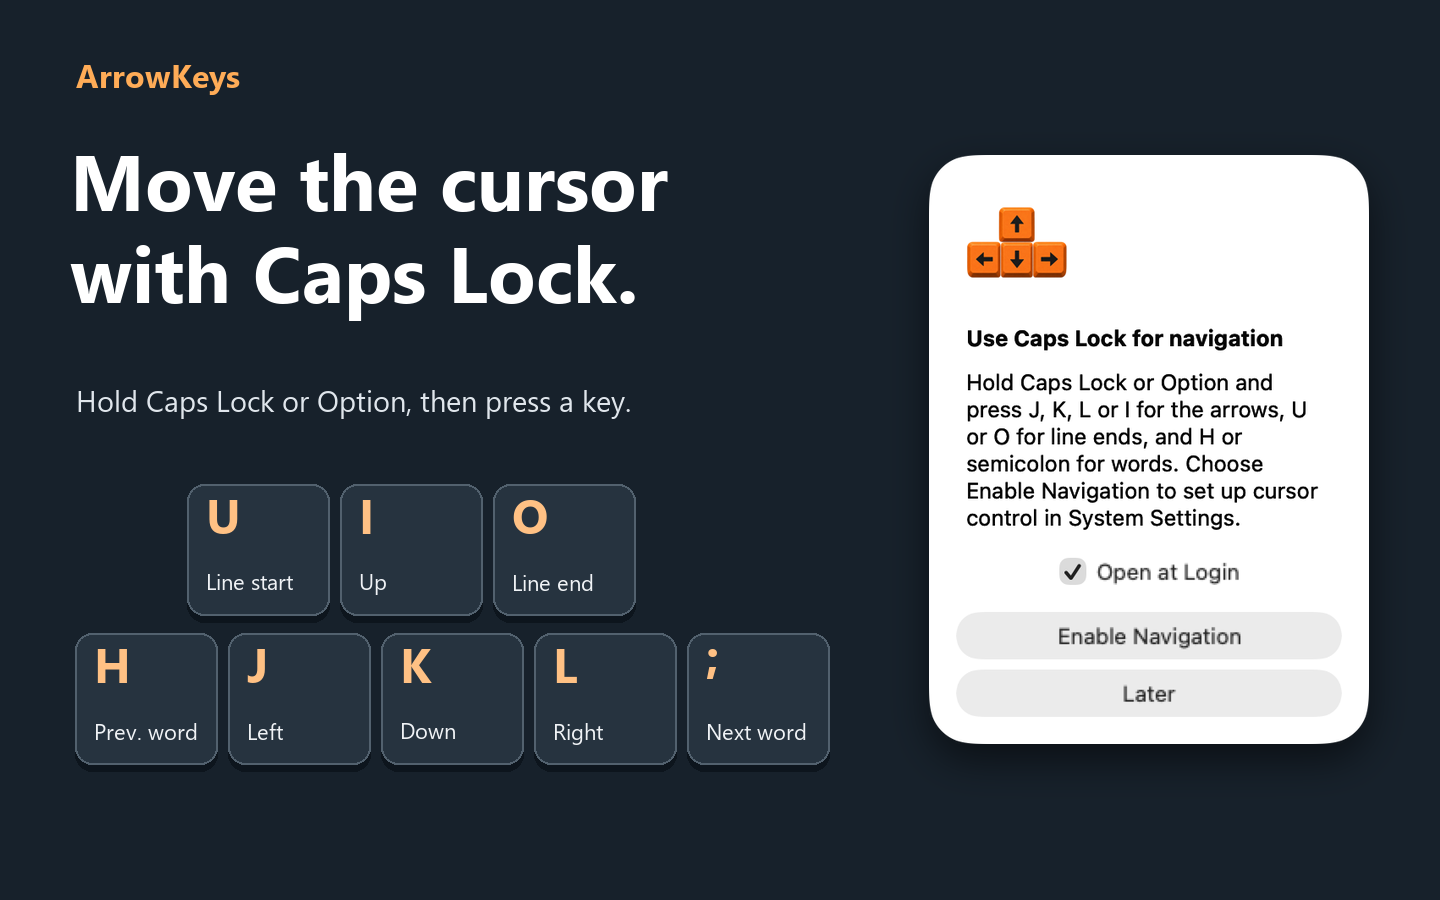
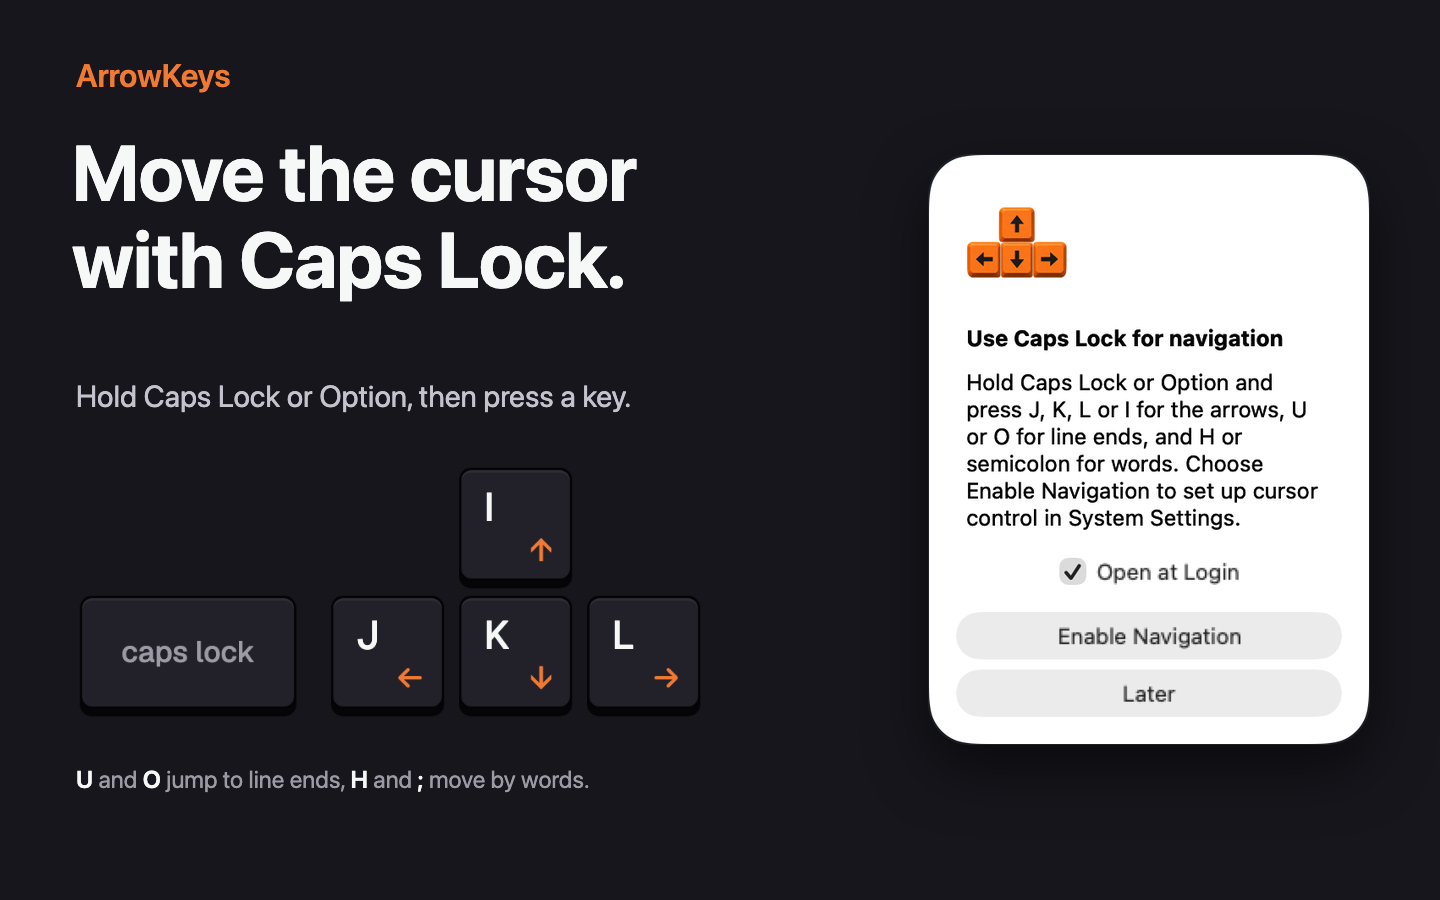
Show the Caps Lock + I J K L keycaps wherever the arrow keys appear
- The keycaps of the website's live demo (Caps Lock, then I, J, K and L with orange
  arrows) replace the full-keyboard picture. They appear in the README's Shortcuts
  section, on a transparent background that suits GitHub's light and dark themes, and in
  the Windows Store "Shortcut guide" window, on that window's background.
- New Mac App Store screenshot, 1440 × 900: the same keys on the demo's dark background,
  a line about U, O, H and ;, and the app's first-run window from the previous screenshot
  (packaging/mac-app-store/setup-window.png). screenshot.html in the same folder is its
  source.
- tools/demo/render-keycaps.py renders the keys from docs/index.html with headless Chrome
  at any size and background, then rebuilds the App Store screenshot. At 2x on the demo's
  background it matches the original picture (docs/images/keycaps-original.png) to a mean
  difference of 0.6/255.
- keyboard.png and docs/images/keyboard.webp are no longer used and are removed.

diff --git a/packaging/mac-app-store/screenshot.html b/packaging/mac-app-store/screenshot.html
@@ -1,0 +1,30 @@
+<!doctype html>
+<!-- The Mac App Store product page screenshot, 1440 × 900. Rebuild ArrowKeys-Mac-App-Store.png from it with
+     python3 tools/demo/render-keycaps.py. The keys are the website's demo keypad (docs/images/keycaps.png);
+     setup-window.png is the app's first-run window. -->
+<html lang="en">
+<head>
+<meta charset="utf-8">
+<style>
+  html, body { margin: 0; width: 1440px; height: 900px; overflow: hidden; background: #17161c; }
+  body { position: relative; font-family: -apple-system, BlinkMacSystemFont, "SF Pro Display", sans-serif; color: #f6f8f7; }
+  .brand { position: absolute; left: 76px; top: 56px; font-size: 32px; font-weight: 600; letter-spacing: -0.01em; color: #f07a33; }
+  h1 { position: absolute; left: 72px; top: 128px; margin: 0; font-size: 78px; line-height: 1.12; font-weight: 700; letter-spacing: -0.005em; }
+  .lead { position: absolute; left: 76px; top: 378px; margin: 0; font-size: 30px; color: #c4c2cc; }
+  .keys { position: absolute; left: 60px; top: 448px; width: 660px; }
+  .more { position: absolute; left: 76px; top: 762px; margin: 0; font-size: 24px; line-height: 1.45; color: #9c9aa4; }
+  .more b { color: #f6f8f7; font-weight: 600; }
+  .window { position: absolute; left: 929px; top: 155px; width: 440px; height: 589px; border-radius: 41px; overflow: hidden;
+    box-shadow: 0 0 0 1px rgba(255,255,255,.08), 0 24px 60px rgba(0,0,0,.55); }
+  .window img { display: block; }
+</style>
+</head>
+<body>
+  <div class="brand">ArrowKeys</div>
+  <h1>Move the cursor<br>with Caps Lock.</h1>
+  <p class="lead">Hold Caps Lock or Option, then press a key.</p>
+  <img class="keys" src="../../docs/images/keycaps.png" alt="">
+  <p class="more"><b>U</b> and <b>O</b> jump to line ends, <b>H</b> and <b>;</b> move by words.</p>
+  <div class="window"><img src="setup-window.png" width="440" height="589" alt=""></div>
+</body>
+</html>

diff --git a/tools/demo/render-keycaps.py b/tools/demo/render-keycaps.py
@@ -1,0 +1,83 @@
+# Renders the website's Caps Lock + I J K L keycaps (the keypad of the live demo in docs/index.html) as still
+# PNG images, so the README, the Windows guide and the Mac App Store screenshot show exactly the keys on the
+# website. Then it rebuilds the Mac App Store screenshot from packaging/mac-app-store/screenshot.html.
+# Needs Google Chrome (set CHROME to use another Chromium browser).
+# Usage: python3 tools/demo/render-keycaps.py
+import functools, http.server, os, shutil, subprocess, tempfile, threading
+
+HERE = os.path.dirname(os.path.abspath(__file__))
+ROOT = os.path.dirname(os.path.dirname(HERE))
+CHROME = os.environ.get("CHROME", "/Applications/Google Chrome.app/Contents/MacOS/Google Chrome")
+PAD_W, PAD_H = 252, 101  # the keypad in CSS pixels: 96 + 3 × 46 + 3 × 6 wide, 2 × 46 + 6 + 3 (key shadow) high
+
+# (file, scale, background or None for transparent, margin around the keys in CSS pixels)
+KEYCAPS = [
+    ("docs/images/keycaps.png", 3, None, 8),              # README (on GitHub's light and dark themes), App Store screenshot
+    ("packaging/store/keycaps.png", 2.5, "#faf9f6", 4),   # the Windows Store guide window, on its BackColor
+]
+SCREENSHOT = ("packaging/mac-app-store/screenshot.html", "packaging/mac-app-store/ArrowKeys-Mac-App-Store.png", 1440, 900)
+
+# Only the demo keypad, at rest, in the site's dark theme (the keys are the same in both themes; the dark
+# theme's brighter orange arrows are the ones the keycaps image uses).
+CSS = """
+  header, .skip, .hero-copy, main > *:not(.hero), footer, .device-bar, .doc, .readout { display: none !important; }
+  body::before { display: none !important; }
+  html, body, .band.hero, .device, .device-foot { background: var(--capture-bg) !important; }
+  body { margin: 0 !important; }
+  .hero .wrap { display: block !important; padding: 0 !important; max-width: none !important; }
+  .device { border: 0 !important; }
+  .device-foot { display: block !important; border: 0 !important; padding: var(--capture-margin) !important; }
+  *, *::before, *::after { animation: none !important; transition: none !important; }
+"""
+DRIVER = """<script>
+  var q = new URLSearchParams(location.search), root = document.documentElement;
+  root.style.setProperty("--capture-bg", q.get("bg"));
+  root.style.setProperty("--capture-margin", q.get("margin") + "px");
+  root.dataset.theme = "dark";
+</script>
+</body>"""
+
+
+class QuietHandler(http.server.SimpleHTTPRequestHandler):
+    def log_message(self, *args):
+        pass
+
+
+def chrome(profile, width, height, scale, out, url, transparent=False):
+    args = [CHROME, "--headless=new", "--disable-gpu", "--hide-scrollbars", "--force-prefers-reduced-motion",
+            "--user-data-dir=" + profile, "--window-size=%d,%d" % (width, height), "--force-device-scale-factor=%g" % scale,
+            "--virtual-time-budget=3000", "--screenshot=" + out, url]
+    if transparent:
+        args.insert(1, "--default-background-color=00000000")
+    subprocess.run(args, check=True, capture_output=True)
+
+
+def main():
+    tmp = tempfile.mkdtemp(prefix="arrowkeys-keycaps-")
+    try:
+        site = os.path.join(tmp, "site")
+        shutil.copytree(os.path.join(ROOT, "docs"), site)
+        page = open(os.path.join(site, "index.html"), encoding="utf-8").read()
+        page = page.replace("</style>", CSS + "</style>", 1).replace("</body>", DRIVER, 1)
+        open(os.path.join(site, "index.html"), "w", encoding="utf-8").write(page)
+        server = http.server.ThreadingHTTPServer(("127.0.0.1", 0), functools.partial(QuietHandler, directory=site))
+        threading.Thread(target=server.serve_forever, daemon=True).start()
+        base = "http://127.0.0.1:%d/" % server.server_address[1]
+
+        for n, (name, scale, background, margin) in enumerate(KEYCAPS):
+            bg = "transparent" if background is None else background.replace("#", "%23")
+            chrome(os.path.join(tmp, "profile-%d" % n), PAD_W + 2 * margin, PAD_H + 2 * margin, scale,
+                   os.path.join(ROOT, name), base + "?bg=%s&margin=%d" % (bg, margin), transparent=background is None)
+            print(name)
+        server.shutdown()
+
+        page, out, width, height = SCREENSHOT
+        chrome(os.path.join(tmp, "profile-screenshot"), width, height, 1, os.path.join(ROOT, out),
+               "file://" + os.path.join(ROOT, page), )
+        print(out)
+    finally:
+        shutil.rmtree(tmp, ignore_errors=True)
+
+
+if __name__ == "__main__":
+    main()

diff --git a/tools/demo/README.md b/tools/demo/README.md
@@ -14,6 +14,22 @@ It needs Google Chrome (or set `CHROME` to another Chromium browser). Each frame
 after the first steps of its tour, captured on GitHub's page colour, encoded to WebP by Chrome and joined
 by `animate.py`. If you change the tour in `docs/index.html`, change `TOUR` in the script too.
 
+## Keycaps image (from the website)
+
+Wherever ArrowKeys shows its keys, it uses the Caps Lock + I J K L keycaps of the website's demo. The
+original picture is `docs/images/keycaps-original.png`. `render-keycaps.py` renders the same keys from
+`docs/index.html` at any size, with any background, so they always match it:
+
+- `docs/images/keycaps.png`: transparent, for the README and the Mac App Store screenshot;
+- `packaging/store/keycaps.png`: on the background of the Windows Store guide window.
+
+It then rebuilds `packaging/mac-app-store/ArrowKeys-Mac-App-Store.png` from `screenshot.html` in the same
+folder. Run it after changing the demo keys or the screenshot:
+
+```sh
+python3 tools/demo/render-keycaps.py
+```
+
 ## Other website images
 
 The other images on the website are still WebP files. macOS can't encode WebP itself, so they go through
@@ -21,7 +37,7 @@ a browser: copy `encode.html` and `server.py` next to the PNG files, run `python
 open http://localhost:8766/encode.html. In the browser console, run for example:
 
 ```js
-await encodeAll([["keyboard.png", "keyboard.webp", 0.9]]);
+await encodeAll([["mac-menu.png", "mac-menu.webp", 0.9]]);
 ```
 
 The server saves the results into `out/`.

diff --git a/README.md b/README.md
@@ -47,6 +47,8 @@ This helps anyone who writes a lot: emails, documents, chats or code. People who
 
 ## Shortcuts
 
+<img src="docs/images/keycaps.png" width="402" alt="Keycaps: Caps Lock on the left, and I, J, K and L on the right with orange arrows: I up, J left, K down, L right">
+
 Hold **Caps Lock** and press:
 
 | Key | Moves the cursor | Like pressing |
@@ -60,9 +62,7 @@ Hold **Caps Lock** and press:
 | **U** | To the start of the line | Command + ← on Mac, Home on Windows |
 | **O** | To the end of the line | Command + → on Mac, End on Windows |
 
-Holding a key repeats it, just like a real arrow key. The highlighted keys show where they are:
-
-![Keyboard with Caps Lock and the J, K, L, I keys highlighted](docs/images/keyboard.webp)
+Holding a key repeats it, just like a real arrow key.
 
 **What happens to Caps Lock?** While ArrowKeys is running, Caps Lock no longer switches to capital letters. Use **Shift** for capitals as usual. Quit ArrowKeys and Caps Lock works as before.
 

diff --git a/packaging/mac-app-store/README.md b/packaging/mac-app-store/README.md
@@ -30,7 +30,7 @@ bash packaging/build-mac-store.sh dist/mac-app-store/upload --archive
 open dist/mac-app-store/upload/ArrowKeys.xcarchive
 ```
 
-In Organizer, choose **Distribute App → App Store Connect** and select your team. The archive contains the sandboxed universal app and its privacy manifest. The product page screenshot is [included here](ArrowKeys-Mac-App-Store.png).
+In Organizer, choose **Distribute App → App Store Connect** and select your team. The archive contains the sandboxed universal app and its privacy manifest. The product page screenshot is [included here](ArrowKeys-Mac-App-Store.png). It is built from [screenshot.html](screenshot.html) with `python3 tools/demo/render-keycaps.py`.
 
 For a manually signed package, set `MAC_APP_SIGN_IDENTITY`, `MAC_INSTALLER_SIGN_IDENTITY` and `MAC_APP_STORE_PROFILE` to the distribution identities and matching Mac App Store provisioning profile.
 
